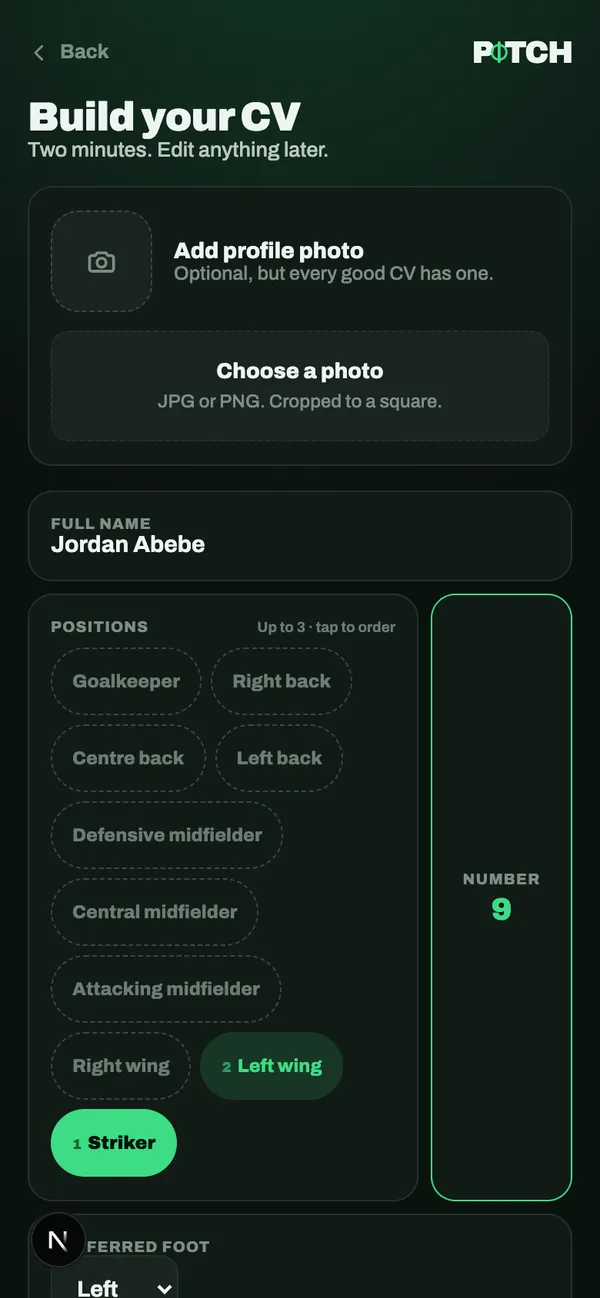
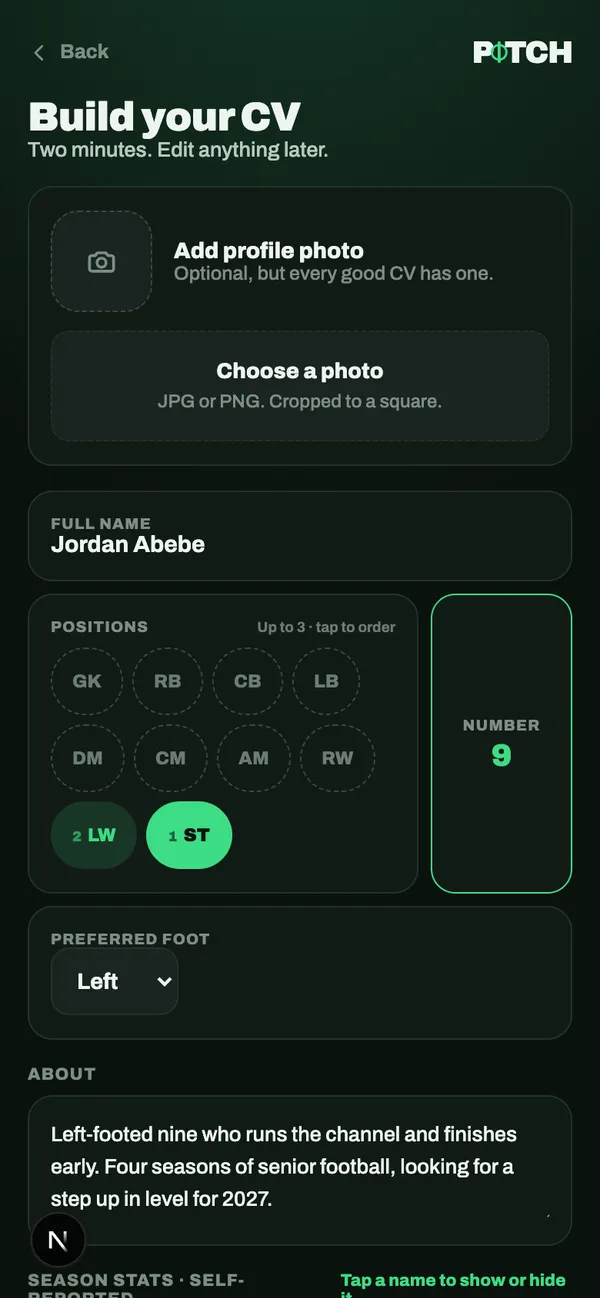
Site: step 3 lights up, tab screens load up front, picker shows codes
- "How it works" switches steps at 30% and 50% of the section, so step 3
  is active while its phone is on screen.
- The four "Who it's for" screens load straight away, so switching tabs
  never shows an empty frame.
- The pitch lights up as it comes into view.
- build.webp re-captured: the CV builder's position picker shows GK, RB,
  CB, LB, DM, CM, AM, LW, RW, ST.

Not pushed: awaiting BUZ's approval to go live.

diff --git a/components/site/Site.tsx b/components/site/Site.tsx
@@ -62,14 +62,14 @@ const phoneShell: React.CSSProperties = { borderRadius: 44, padding: 10, backgro
 const Notch = () => <div aria-hidden style={{ position: 'absolute', top: 8, left: '50%', transform: 'translateX(-50%)', width: 86, height: 24, borderRadius: 999, background: '#050806', pointerEvents: 'none' }} />;
 
 // A phone holding one real screen. Tapping it opens the screen full size.
-function Phone({ src, alt, width = 280, tilt = 0, onOpen }: { src: string; alt: string; width?: number; tilt?: number; onOpen: (s: Shot) => void }) {
+function Phone({ src, alt, width = 280, tilt = 0, eager = false, onOpen }: { src: string; alt: string; width?: number; tilt?: number; eager?: boolean; onOpen: (s: Shot) => void }) {
   const inner = width - 20;
   return (
     <button type="button" className="sp-zoomable" onClick={() => onOpen({ src, alt })} aria-label={`Open full size: ${alt}`}
       style={{ ...phoneShell, width, transform: `rotate(${tilt}deg)`, border: 'none', cursor: 'zoom-in', fontFamily: 'inherit', color: 'inherit' }}>
       <div style={{ position: 'relative', borderRadius: 34, overflow: 'hidden', height: Math.round(inner * (844 / 390)), background: C.bg }}>
         {/* eslint-disable-next-line @next/next/no-img-element */}
-        <img src={src} alt="" width={600} height={1298} loading="lazy" decoding="async" style={{ width: '100%', height: '100%', objectFit: 'cover', objectPosition: 'top', display: 'block' }} />
+        <img src={src} alt="" width={600} height={1298} loading={eager ? 'eager' : 'lazy'} decoding="async" style={{ width: '100%', height: '100%', objectFit: 'cover', objectPosition: 'top', display: 'block' }} />
         <Notch />
       </div>
     </button>
@@ -123,7 +123,7 @@ function Laptop({ src, alt, onOpen }: { src: string; alt: string; onOpen: (s: Sh
       style={{ width: '100%', maxWidth: 620, background: 'none', border: 'none', padding: 0, cursor: 'zoom-in', fontFamily: 'inherit', color: 'inherit' }}>
       <div style={{ borderRadius: '16px 16px 0 0', padding: '10px 10px 0', background: 'linear-gradient(160deg,#2a332e,#111714)', boxShadow: '0 0 0 1px #2f3a34 inset' }}>
         {/* eslint-disable-next-line @next/next/no-img-element */}
-        <img src={src} alt="" width={1400} height={875} loading="lazy" decoding="async" style={{ width: '100%', height: 'auto', display: 'block', borderRadius: '8px 8px 0 0' }} />
+        <img src={src} alt="" width={1400} height={875} decoding="async" style={{ width: '100%', height: 'auto', display: 'block', borderRadius: '8px 8px 0 0' }} />
       </div>
       <div style={{ height: 14, borderRadius: '0 0 18px 18px', background: 'linear-gradient(#27302b,#161c19)', margin: '0 -18px', boxShadow: '0 30px 60px -30px rgba(0,0,0,.9)' }} />
     </button>
@@ -253,10 +253,10 @@ const PRICE_FOR: Record<Role, 'Players' | 'Coaches' | 'Clubs'> = { player: 'Play
 
 // How far the reader has scrolled through an element: 0 as it enters the
 // middle of the screen, 1 as it leaves it.
-function progressThrough(el: HTMLElement | null): number {
+function progressThrough(el: HTMLElement | null, anchor = 0.55): number {
   if (!el) return 0;
   const r = el.getBoundingClientRect();
-  const mid = window.innerHeight * 0.55;
+  const mid = window.innerHeight * anchor;
   return Math.min(1, Math.max(0, (mid - r.top) / Math.max(1, r.height)));
 }
 
@@ -279,6 +279,11 @@ export default function Site() {
   const swipe = useRef<number | null>(null);
 
   const openShot = useCallback((s: Shot) => setShot(s), []);
+
+  useEffect(() => {
+    const t = window.setTimeout(() => { ROLES.forEach((r) => { const img = new Image(); img.src = WHO[r].shot.src; }); }, 1500);
+    return () => window.clearTimeout(t);
+  }, []);
   const closeShot = useCallback(() => setShot(null), []);
 
   // Gentle reveal as sections enter; nothing hidden if JS never runs.
@@ -309,14 +314,15 @@ export default function Site() {
     const update = () => {
       frame = 0;
       setHowProgress(progressThrough(howRef.current));
-      setVisionProgress(progressThrough(visionRef.current));
+      setVisionProgress(progressThrough(visionRef.current, 0.9));
       const mid = window.innerHeight * 0.5;
       const steps = stepRefs.current.filter(Boolean) as HTMLDivElement[];
       const lefts = steps.map((el) => el.getBoundingClientRect().left);
       const oneRow = lefts.length > 1 && Math.max(...lefts) - Math.min(...lefts) > 100;
       if (oneRow) {
         // Side by side: step through them as the reader moves down the section.
-        setActiveStep(Math.min(steps.length - 1, Math.floor(progressThrough(howRef.current) * steps.length)));
+        const hp = progressThrough(howRef.current);
+        setActiveStep(hp < 0.3 ? 0 : hp < 0.5 ? 1 : 2);
       } else {
         let best = 0, bestDist = Infinity;
         steps.forEach((el, i) => {
@@ -586,7 +592,7 @@ export default function Site() {
             <div style={{ display: 'flex', justifyContent: 'center' }}>
               {WHO[who].shot.laptop
                 ? <Laptop src={WHO[who].shot.src} alt={WHO[who].shot.alt} onOpen={openShot} />
-                : <Phone src={WHO[who].shot.src} alt={WHO[who].shot.alt} width={290} onOpen={openShot} />}
+                : <Phone src={WHO[who].shot.src} alt={WHO[who].shot.alt} width={290} eager onOpen={openShot} />}
             </div>
           </div>
         </div>
